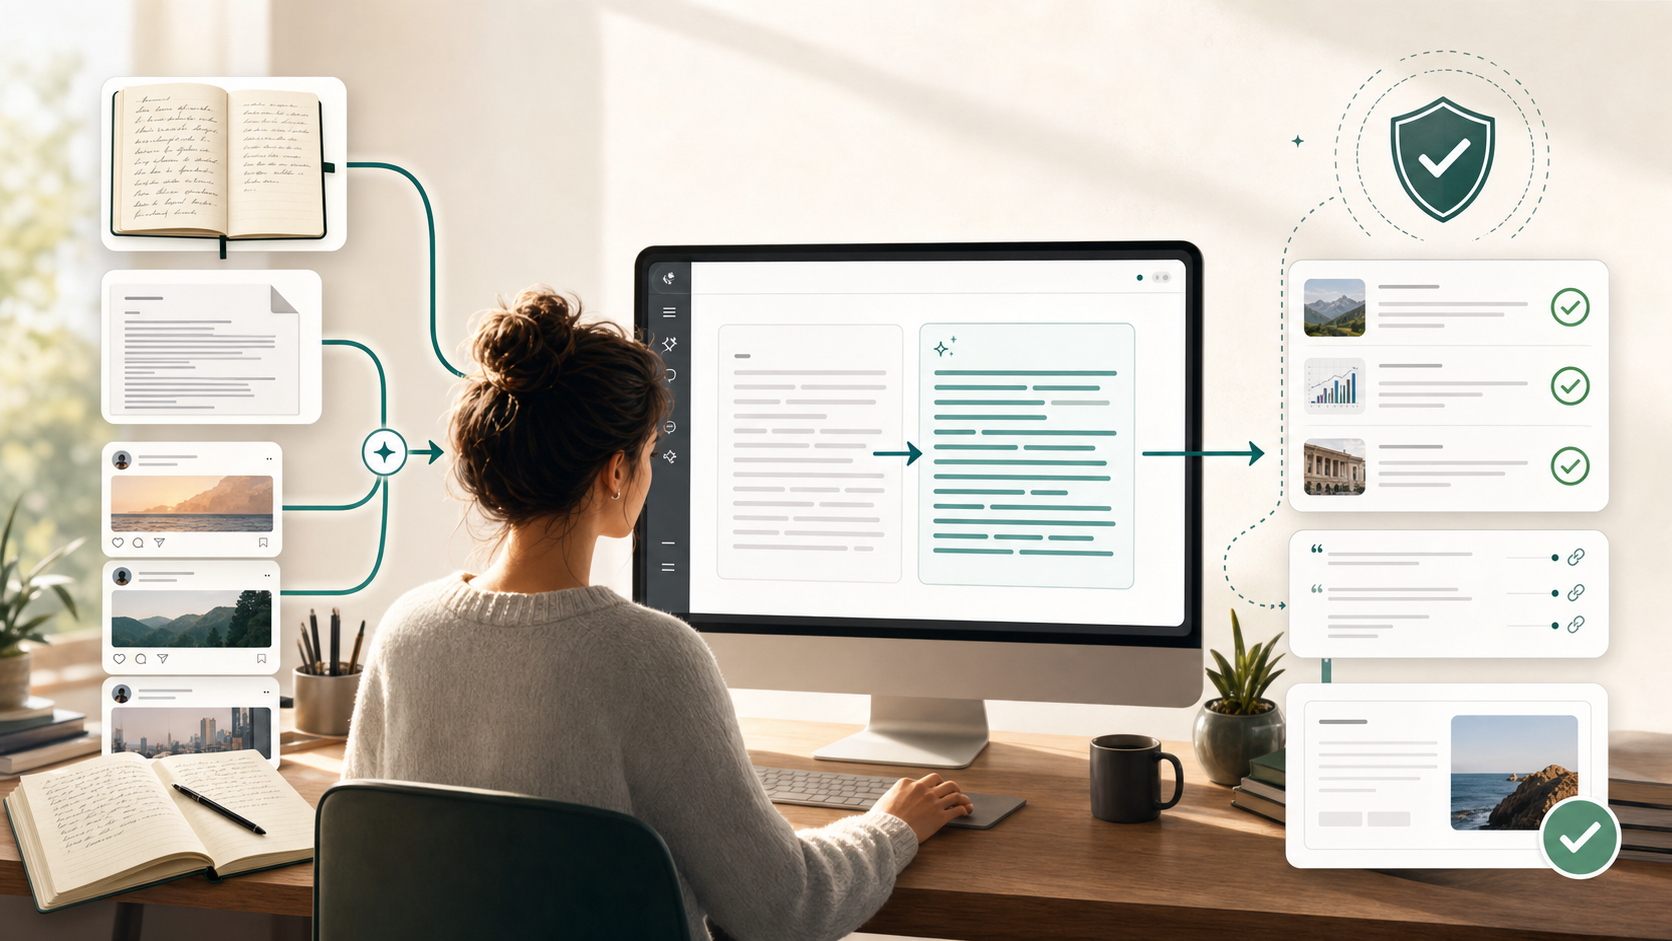
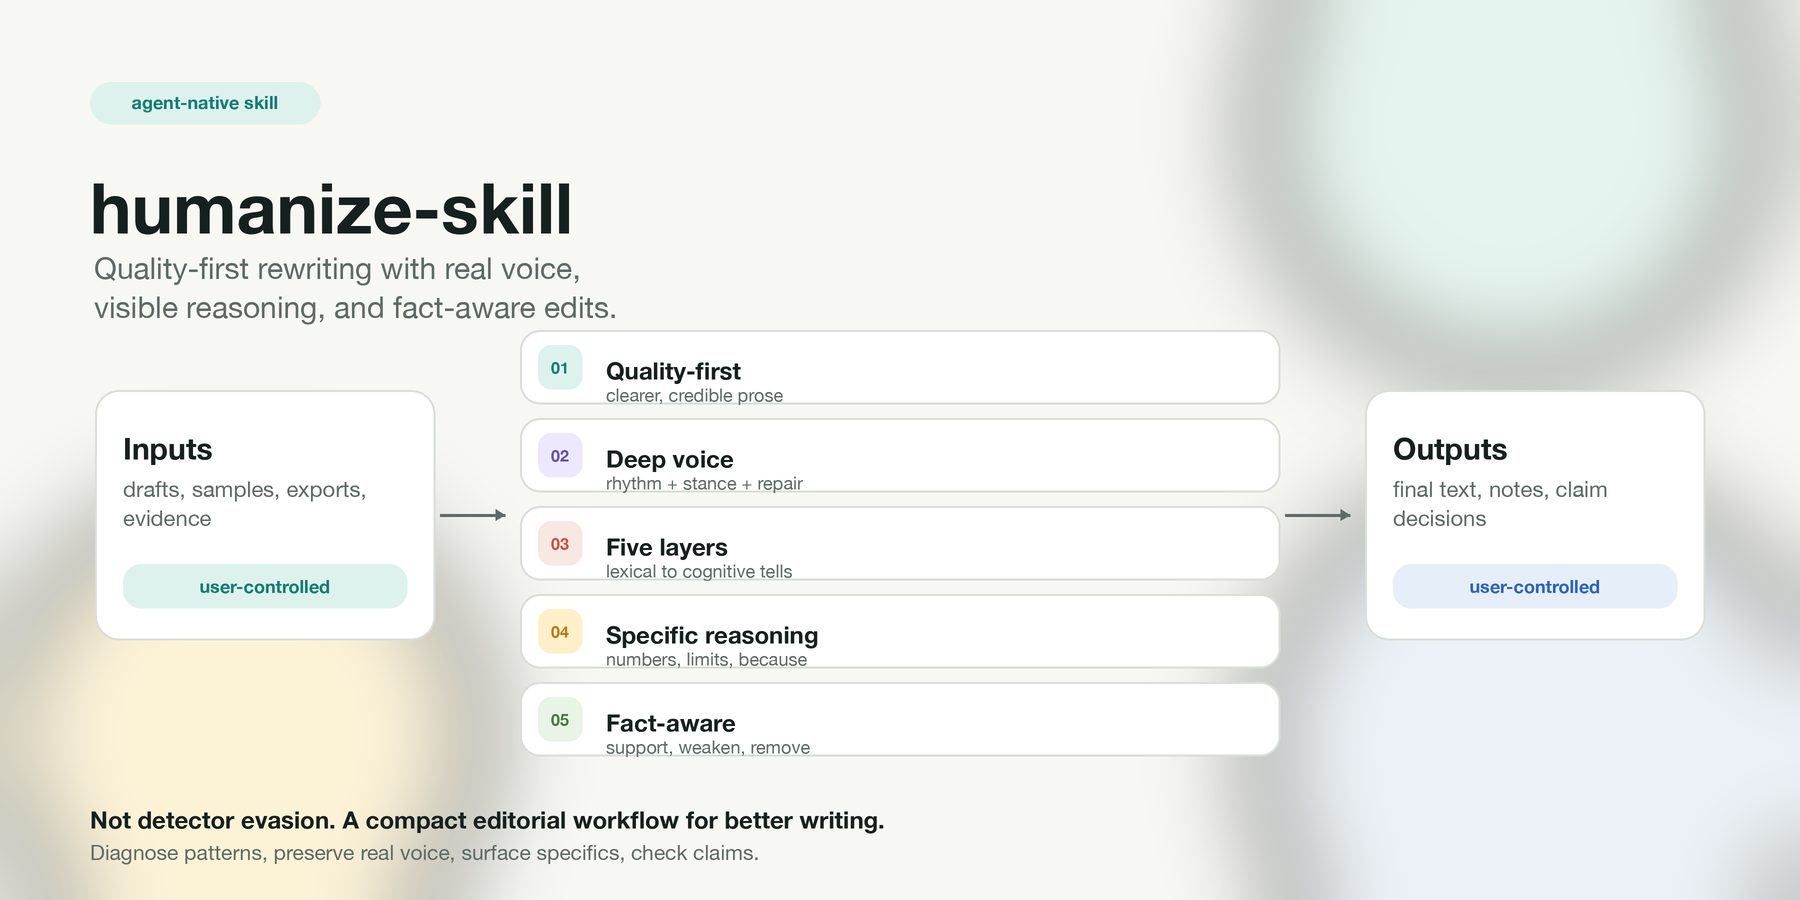
Refresh README visuals for core workflow

diff --git a/README.md b/README.md
@@ -1,5 +1,5 @@
 <p align="center">
-  <img src="./assets/humanize-skill-hero.png" alt="humanize-skill workflow: user writing and social inputs, voice rewrite, fact verification" width="100%">
+  <img src="./assets/humanize-skill-hero.png" alt="humanize-skill core workflow: inputs, five quality features, and grounded outputs" width="100%">
 </p>
 
 <h1 align="center">humanize-skill</h1>
@@ -43,6 +43,10 @@ Underneath all three sits one deeper signal: **specificity**. Concrete numbers, 
 `humanize-skill` treats humanization as an editorial pipeline, not a vibe filter.
 
 ## Core Features
+
+<p align="center">
+  <img src="./assets/humanize-core-features.png" alt="humanize-skill five core features: quality-first humanization, deep voice matching, five-layer diagnosis, specificity and reasoning, fact-aware rewriting" width="100%">
+</p>
 
 ### 1. Quality-first humanization
 
@@ -264,6 +268,10 @@ Save the final rewrite and a compact claim table.
 ```
 
 ## How it works
+
+<p align="center">
+  <img src="./assets/humanize-workflow.png" alt="humanize-skill workflow: draft, samples, and evidence pass through diagnosis, profile, specificity, fact check, and soul pass to final text and notes" width="100%">
+</p>
 
 ```mermaid
 flowchart LR
@@ -660,7 +668,9 @@ Host agents should use their own current web/search tools under the rules in [SK
 │   ├── personality-and-soul.md # The fifth pass: writer presence, real personality, anti-fake-personality rules
 │   └── detection-aware-methods.md  # Alternative methodology appendix (user opt-in). Not the default workflow.
 ├── assets/
-│   └── humanize-skill-hero.png # README hero image generated with gpt-image-2
+│   ├── humanize-skill-hero.png    # README hero: inputs, core features, outputs
+│   ├── humanize-core-features.png # Five core product promises
+│   └── humanize-workflow.png      # End-to-end editorial workflow
 └── LICENSE
 ```
 